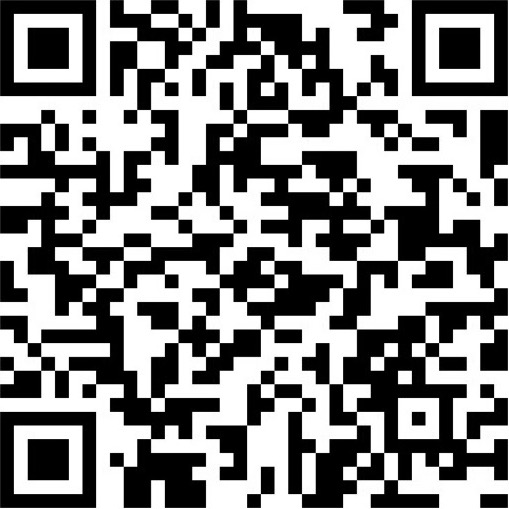
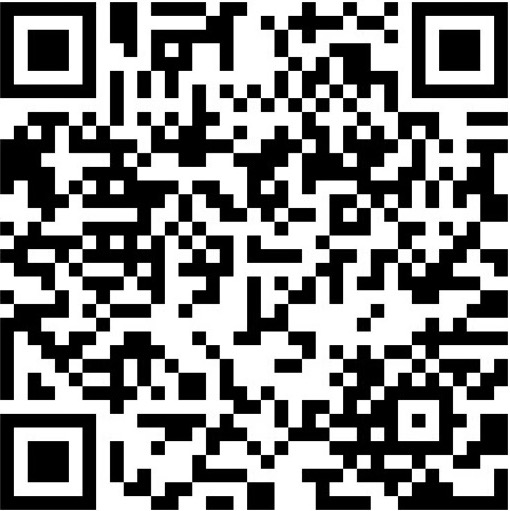
docs: update qrcode and gitlab build script

diff --git a/doc/hey.conf.js b/doc/hey.conf.js
@@ -30,5 +30,5 @@ module.exports = {
     },
     externals: {}
   },
-  copy: ["./static/images/**/*", "./simple.html", "./components/demos/**/*.vue", "./components/common/qiniu.vue", "./components/demos/**/*.txt", "./.well-known/pki-validation/fileauth.txt"]
+  copy: ["./static/images/**/*", "./simple.html", "./components/demos/**/*.vue", "./components/common/qiniu.vue", "./components/demos/**/*.txt", "./.well-known/pki-validation/fileauth.txt", 'themes/**/*.css']
 }

diff --git a/doc/components/common/header.vue b/doc/components/common/header.vue
@@ -27,7 +27,7 @@
         <!-- <p>微信群</p> -->
         <div class="weixin-image">
           <img src="https://github.com/heyui/heyui/blob/master/doc/static/images/qrcode.jpg?raw=true&_t=1"/>
-          <p>该二维码11月15日前有效。</p>
+          <p>该二维码11月9日前有效。</p>
         </div>
       </div>
     </Modal>
